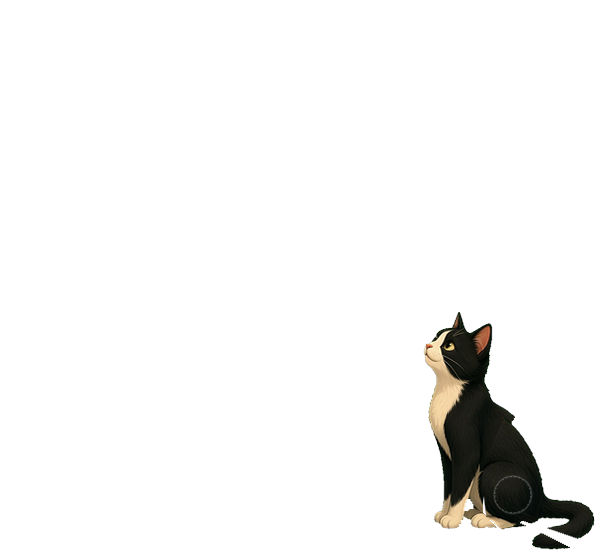
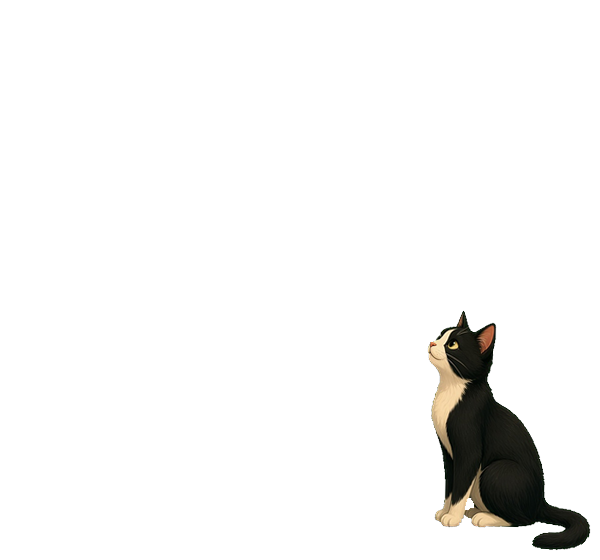
Animate the cat as one drawing, not two parts.
Each scroll pose is the full cat rocked on its paws. Nothing
is cut off or rotated separately, so the animal cannot split.

Changed region(s): [[0.69, 0.5464, 0.99, 1.0]]

diff --git a/components/hero-section.tsx b/components/hero-section.tsx
@@ -4,8 +4,8 @@ import { HeroCtas } from "@/components/hero-ctas";
 
 const HERO_ART = [
   { era: "1980s", still: "/hero/hero-1980s.svg?v=px2", live: "/hero/hero-1980s-live.png?v=px2", cat: "/hero/hero-1980s-cat.svg?v=px2", width: 340, height: 268 },
-  { era: "1990s", still: "/hero/hero-1990s.svg?v=bit16", live: "/hero/hero-1990s-live.png?v=era1", cat: "/hero/hero-1990s-cat.svg?v=bit16", frames: ["/hero/hero-1990s-cat-f0.png?v=pose1", "/hero/hero-1990s-cat-f1.png?v=pose1", "/hero/hero-1990s-cat-f2.png?v=pose1", "/hero/hero-1990s-cat-f3.png?v=pose1"], width: 320, height: 280 },
-  { era: "modern", still: "/hero/hero-modern-d.svg?v=cut2", live: "/hero/hero-modern-d-live.png?v=kneel0906", cat: "/hero/hero-modern-d-cat.svg?v=cut2", frames: ["/hero/hero-modern-d-cat-f0.png?v=pose1", "/hero/hero-modern-d-cat-f1.png?v=pose1", "/hero/hero-modern-d-cat-f2.png?v=pose1", "/hero/hero-modern-d-cat-f3.png?v=pose1", "/hero/hero-modern-d-cat-f4.png?v=pose1", "/hero/hero-modern-d-cat-f5.png?v=pose1"], width: 600, height: 560 },
+  { era: "1990s", still: "/hero/hero-1990s.svg?v=bit16", live: "/hero/hero-1990s-live.png?v=era1", cat: "/hero/hero-1990s-cat.svg?v=bit16", frames: ["/hero/hero-1990s-cat-f0.png?v=pose2", "/hero/hero-1990s-cat-f1.png?v=pose2", "/hero/hero-1990s-cat-f2.png?v=pose2", "/hero/hero-1990s-cat-f3.png?v=pose2"], width: 320, height: 280 },
+  { era: "modern", still: "/hero/hero-modern-d.svg?v=cut2", live: "/hero/hero-modern-d-live.png?v=kneel0906", cat: "/hero/hero-modern-d-cat.svg?v=cut2", frames: ["/hero/hero-modern-d-cat-f0.png?v=pose2", "/hero/hero-modern-d-cat-f1.png?v=pose2", "/hero/hero-modern-d-cat-f2.png?v=pose2", "/hero/hero-modern-d-cat-f3.png?v=pose2", "/hero/hero-modern-d-cat-f4.png?v=pose2", "/hero/hero-modern-d-cat-f5.png?v=pose2"], width: 600, height: 560 },
 ] as const;
 
 export function HeroSection() {
